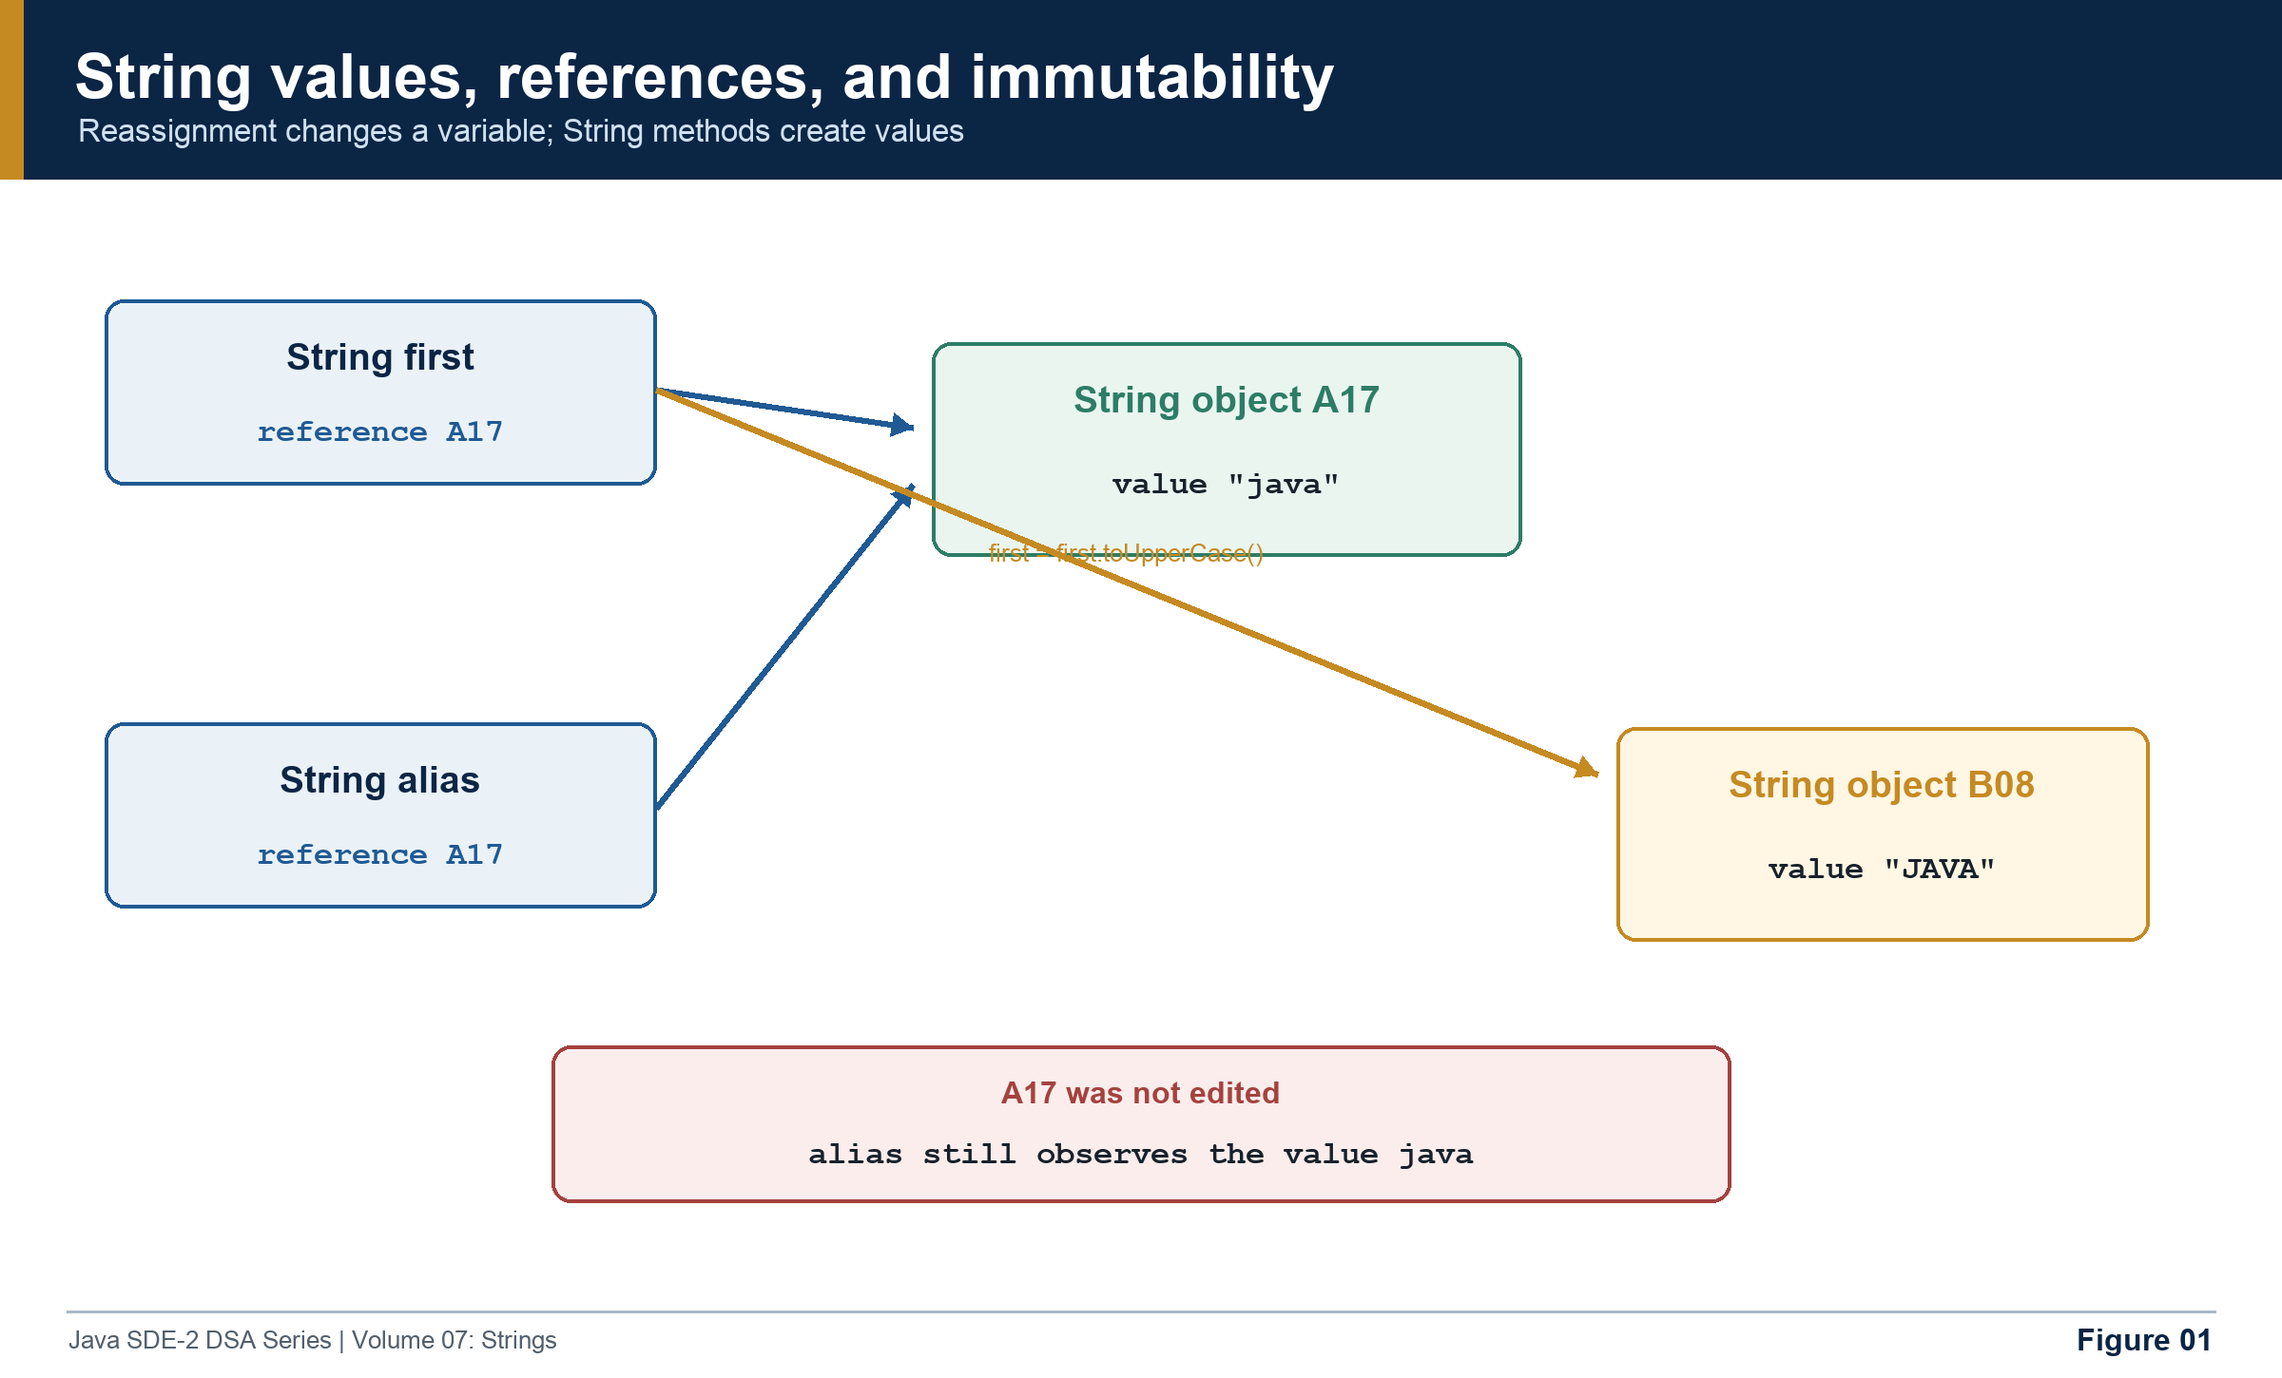
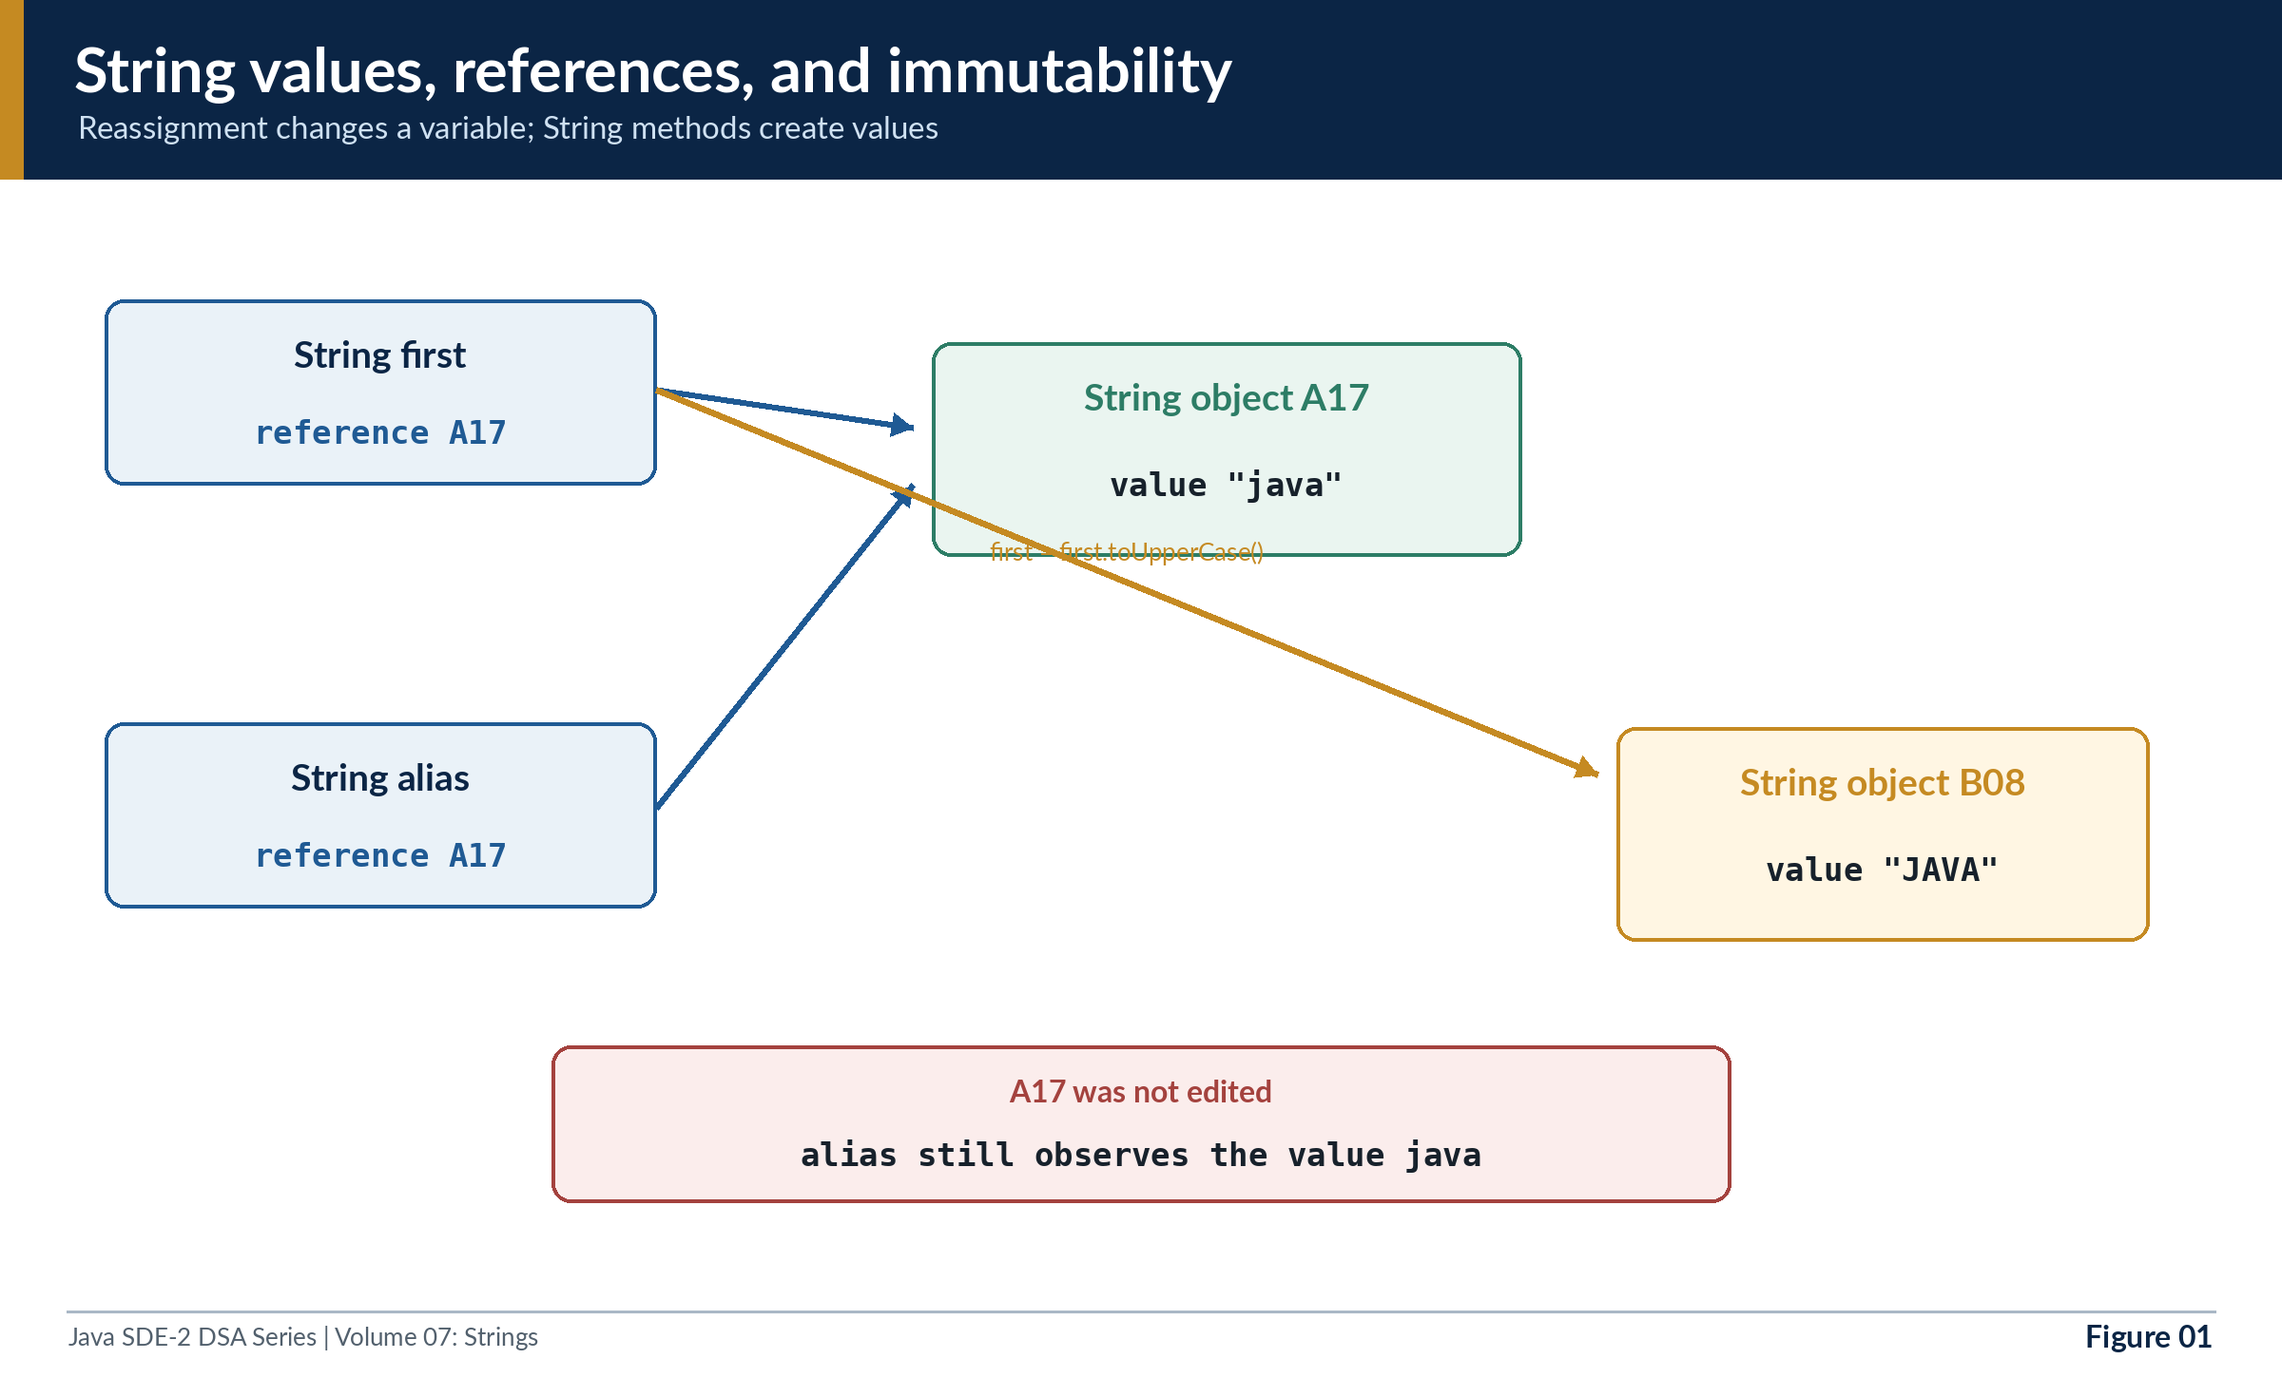
Fix diagram generators writing to dead paths
Three of the five generators still pointed at pre-reorganization
directories - content/volumes/06-arrays-and-array-patterns rather than
content/volumes/dsa/DSA-06-arrays-and-array-patterns.

They did not fail. mkdir(parents=True) created the stale directory, wrote the
PNGs into it, and reported success, while the assets the chapters actually
reference were never touched. Anyone regenerating diagrams would have seen a
clean run and no change in the book.

scripts/diagram_kit.py now holds the shared palette, canvas, and primitives,
and resolves output directories by volume name through volume_assets(), which
refuses to create a volume directory that does not already exist. That guard
is what would have caught this.

Fonts move to the vendored assets/fonts for the same reason the PDF build
did: the generators searched macOS paths first and fell back to DejaVu, so
identical source produced visibly different diagrams per host. Diagrams are
committed artifacts, which made regeneration a source of spurious diffs.
Headings now use Lato, matching the book's own sans, so the 38 regenerated
PNGs change appearance slightly and deterministically.

Verified: all three repointed generators run, write into the correct
directories, create no orphans, and produce valid non-blank images at the
expected canvas size.

diff --git a/books/java-sde2-interview-preparation-series/scripts/diagram_kit.py b/books/java-sde2-interview-preparation-series/scripts/diagram_kit.py
@@ -1,0 +1,152 @@
+#!/usr/bin/env python3
+"""Shared drawing toolkit for the instructional diagram generators.
+
+Two defects motivated this module, and both were silent.
+
+**Output paths.** Each generator hardcoded a path from before the volume
+reorganization -- `content/volumes/06-arrays-and-array-patterns/assets` rather
+than `content/volumes/dsa/DSA-06-arrays-and-array-patterns/assets`. The
+generators did not fail. `mkdir(parents=True)` created the stale directory,
+wrote the PNGs into it, and reported success while the assets the chapters
+actually reference were never updated. `volume_assets()` resolves the
+directory from the volume id and refuses to create a new one.
+
+**Fonts.** Generators searched macOS font paths first and fell back to DejaVu,
+so the same generator produced visibly different diagrams depending on the
+host. Diagrams are committed artifacts, so this made regeneration a source of
+spurious diffs. They now load only the fonts vendored under `assets/fonts`,
+the same set the PDF build uses.
+
+Everything else here is the house diagram style: palette, header band, footer
+rule, and the primitives the volume generators compose.
+"""
+
+from __future__ import annotations
+
+from pathlib import Path
+from typing import Iterable
+
+from PIL import Image, ImageDraw, ImageFont
+
+ROOT = Path(__file__).resolve().parents[1]
+FONT_DIR = ROOT / "assets" / "fonts"
+VOLUMES = ROOT / "content" / "volumes"
+
+# Canvas geometry. Chosen so a full-width diagram lands near 1:1.65 on the page
+# at the series text width; changing it changes every diagram's scale.
+W, H = 2400, 1450
+
+# House palette. Matches the PDF theme colours in scripts/build_book.py.
+NAVY, BLUE, TEAL, GOLD = "#0B2545", "#1F5A94", "#17758A", "#C58A22"
+GREEN, RED, INK, MUTED = "#2D7D66", "#A4423E", "#17212B", "#52606D"
+LINE, WHITE = "#AAB8C6", "#FFFFFF"
+PALE_BLUE, PALE_TEAL, PALE_GOLD = "#EAF2F8", "#EAF6F8", "#FFF6E3"
+PALE_GREEN, PALE_RED, PALE_GRAY = "#EAF5F0", "#FBEDEC", "#F3F6F8"
+
+_FONT_FILES = {
+    ("sans", False): "Lato-Regular.ttf",
+    ("sans", True): "Lato-Bold.ttf",
+    ("mono", False): "DejaVuSansMono.ttf",
+    ("mono", True): "DejaVuSansMono-Bold.ttf",
+}
+
+
+def font(size: int, *, bold: bool = False, mono: bool = False) -> ImageFont.FreeTypeFont:
+    """Load a vendored font. Missing files are a hard error, not a fallback."""
+    filename = _FONT_FILES[("mono" if mono else "sans", bold)]
+    path = FONT_DIR / filename
+    if not path.is_file():
+        raise RuntimeError(
+            f"Missing bundled font {path}. Diagram generation reads only "
+            "assets/fonts so that output does not depend on the host."
+        )
+    return ImageFont.truetype(str(path), size)
+
+
+def volume_assets(volume_dir_name: str) -> Path:
+    """Resolve a volume's assets directory, refusing to invent one.
+
+    `volume_dir_name` is the directory under content/volumes/<segment>/, for
+    example "DSA-17-dynamic-programming". The volume directory must already
+    exist; only `assets/` is created. This is the guard that would have caught
+    the stale-path bug, which wrote PNGs nothing read.
+    """
+    matches = [p for p in VOLUMES.glob(f"*/{volume_dir_name}") if p.is_dir()]
+    if not matches:
+        available = sorted(p.name for p in VOLUMES.glob("*/*") if p.is_dir())
+        raise RuntimeError(
+            f"No volume directory named {volume_dir_name!r} under {VOLUMES}. "
+            f"Known volumes: {', '.join(available[:6])}..."
+        )
+    if len(matches) > 1:
+        raise RuntimeError(f"Ambiguous volume name {volume_dir_name!r}: {matches}")
+    assets = matches[0] / "assets"
+    assets.mkdir(exist_ok=True)
+    return assets
+
+
+def markdown_path(volume_dir_name: str, filename: str) -> str:
+    """The repo-relative path a chapter must use to reference a diagram."""
+    assets = volume_assets(volume_dir_name)
+    return str(assets.relative_to(ROOT) / filename)
+
+
+def canvas(title: str, subtitle: str, footer: str) -> tuple[Image.Image, ImageDraw.ImageDraw]:
+    """A titled canvas with the series header band and footer rule."""
+    image = Image.new("RGB", (W, H), WHITE)
+    draw = ImageDraw.Draw(image)
+    draw.rectangle((0, 0, W, 188), fill=NAVY)
+    draw.rectangle((0, 0, 24, 188), fill=GOLD)
+    draw.text((78, 44), title, font=font(67, bold=True), fill=WHITE)
+    draw.text((82, 119), subtitle, font=font(34), fill="#CFE1F2")
+    draw.line((70, H - 70, W - 70, H - 70), fill=LINE, width=3)
+    draw.text((72, H - 55), footer, font=font(27), fill=MUTED)
+    return image, draw
+
+
+def box(draw: ImageDraw.ImageDraw, xy: tuple[int, int, int, int], *,
+        fill: str = WHITE, outline: str = LINE, width: int = 3, radius: int = 14) -> None:
+    draw.rounded_rectangle(xy, radius=radius, fill=fill, outline=outline, width=width)
+
+
+def centered(draw: ImageDraw.ImageDraw, xy: tuple[int, int, int, int], text: str,
+             *, f: ImageFont.FreeTypeFont, fill: str = INK) -> None:
+    """Centre text inside a box, measured rather than estimated."""
+    x0, y0, x1, y1 = xy
+    left, top, right, bottom = draw.textbbox((0, 0), text, font=f)
+    draw.text(
+        (x0 + (x1 - x0 - (right - left)) / 2 - left,
+         y0 + (y1 - y0 - (bottom - top)) / 2 - top),
+        text, font=f, fill=fill)
+
+
+def arrow(draw: ImageDraw.ImageDraw, start: tuple[int, int], end: tuple[int, int],
+          *, colour: str = BLUE, width: int = 5, head: int = 22) -> None:
+    """A straight arrow with a filled triangular head."""
+    import math
+    draw.line((start, end), fill=colour, width=width)
+    angle = math.atan2(end[1] - start[1], end[0] - start[0])
+    draw.polygon(
+        [end,
+         (end[0] - head * math.cos(angle - math.pi / 7),
+          end[1] - head * math.sin(angle - math.pi / 7)),
+         (end[0] - head * math.cos(angle + math.pi / 7),
+          end[1] - head * math.sin(angle + math.pi / 7))],
+        fill=colour)
+
+
+def legend(draw: ImageDraw.ImageDraw, x: int, y: int,
+           entries: Iterable[tuple[str, str]], *, swatch: int = 34) -> None:
+    """A colour key. Entries are (colour, label) pairs."""
+    f = font(29)
+    for index, (colour, label) in enumerate(entries):
+        top = y + index * (swatch + 18)
+        draw.rounded_rectangle((x, top, x + swatch, top + swatch),
+                               radius=7, fill=colour, outline=LINE, width=2)
+        draw.text((x + swatch + 18, top + 2), label, font=f, fill=MUTED)
+
+
+def save(image: Image.Image, volume_dir_name: str, filename: str) -> Path:
+    path = volume_assets(volume_dir_name) / filename
+    image.save(path, "PNG", optimize=True)
+    return path

diff --git a/books/java-sde2-interview-preparation-series/scripts/generate_string_diagrams.py b/books/java-sde2-interview-preparation-series/scripts/generate_string_diagrams.py
@@ -8,9 +8,11 @@ from pathlib import Path
 
 from PIL import Image, ImageDraw, ImageFont
 
+import diagram_kit
+
 
 ROOT = Path(__file__).resolve().parents[1]
-OUT = ROOT / "content" / "volumes" / "07-strings-and-string-patterns" / "assets"
+OUT = ROOT / "content" / "volumes" / "dsa" / "DSA-07-strings-and-string-patterns" / "assets"
 W, H = 2400, 1450
 NAVY, BLUE, TEAL, GOLD = "#0B2545", "#1F5A94", "#17758A", "#C58A22"
 GREEN, RED, INK, MUTED = "#2D7D66", "#A4423E", "#17212B", "#52606D"
@@ -20,23 +22,10 @@ PALE_GREEN, PALE_RED, PALE_GRAY = "#EAF5F0", "#FBEDEC", "#F3F6F8"
 
 
 def font(size: int, *, bold: bool = False, mono: bool = False) -> ImageFont.FreeTypeFont:
-    names = (
-        ["/System/Library/Fonts/Supplemental/Courier New Bold.ttf",
-         "/usr/share/fonts/truetype/dejavu/DejaVuSansMono-Bold.ttf"]
-        if mono and bold else
-        ["/System/Library/Fonts/Supplemental/Courier New.ttf",
-         "/usr/share/fonts/truetype/dejavu/DejaVuSansMono.ttf"]
-        if mono else
-        ["/System/Library/Fonts/Supplemental/Arial Bold.ttf",
-         "/usr/share/fonts/truetype/dejavu/DejaVuSans-Bold.ttf"]
-        if bold else
-        ["/System/Library/Fonts/Supplemental/Arial.ttf",
-         "/usr/share/fonts/truetype/dejavu/DejaVuSans.ttf"]
-    )
-    for name in names:
-        if Path(name).exists():
-            return ImageFont.truetype(name, size)
-    return ImageFont.load_default(size=size)
+    # Delegates to diagram_kit, which reads only the vendored assets/fonts.
+    # Searching system fonts first made the same generator produce different
+    # diagrams per host, and diagrams are committed artifacts.
+    return diagram_kit.font(size, bold=bold, mono=mono)
 
 
 TITLE = font(65, bold=True)

diff --git a/books/java-sde2-interview-preparation-series/scripts/generate_array_diagrams.py b/books/java-sde2-interview-preparation-series/scripts/generate_array_diagrams.py
@@ -8,9 +8,11 @@ from pathlib import Path
 
 from PIL import Image, ImageDraw, ImageFont
 
+import diagram_kit
+
 
 ROOT = Path(__file__).resolve().parents[1]
-OUT = ROOT / "content" / "volumes" / "06-arrays-and-array-patterns" / "assets"
+OUT = ROOT / "content" / "volumes" / "dsa" / "DSA-06-arrays-and-array-patterns" / "assets"
 W, H = 2400, 1450
 NAVY, BLUE, TEAL, GOLD = "#0B2545", "#1F5A94", "#17758A", "#C58A22"
 GREEN, RED, INK, MUTED = "#2D7D66", "#A4423E", "#17212B", "#52606D"
@@ -20,23 +22,10 @@ PALE_GREEN, PALE_RED, PALE_GRAY = "#EAF5F0", "#FBEDEC", "#F3F6F8"
 
 
 def font(size: int, *, bold: bool = False, mono: bool = False) -> ImageFont.FreeTypeFont:
-    names = (
-        ["/System/Library/Fonts/Supplemental/Courier New Bold.ttf",
-         "/usr/share/fonts/truetype/dejavu/DejaVuSansMono-Bold.ttf"]
-        if mono and bold else
-        ["/System/Library/Fonts/Supplemental/Courier New.ttf",
-         "/usr/share/fonts/truetype/dejavu/DejaVuSansMono.ttf"]
-        if mono else
-        ["/System/Library/Fonts/Supplemental/Arial Bold.ttf",
-         "/usr/share/fonts/truetype/dejavu/DejaVuSans-Bold.ttf"]
-        if bold else
-        ["/System/Library/Fonts/Supplemental/Arial.ttf",
-         "/usr/share/fonts/truetype/dejavu/DejaVuSans.ttf"]
-    )
-    for name in names:
-        if Path(name).exists():
-            return ImageFont.truetype(name, size)
-    return ImageFont.load_default(size=size)
+    # Delegates to diagram_kit, which reads only the vendored assets/fonts.
+    # Searching system fonts first made the same generator produce different
+    # diagrams per host, and diagrams are committed artifacts.
+    return diagram_kit.font(size, bold=bold, mono=mono)
 
 
 TITLE = font(67, bold=True)

diff --git a/books/java-sde2-interview-preparation-series/scripts/generate_loop_diagrams.py b/books/java-sde2-interview-preparation-series/scripts/generate_loop_diagrams.py
@@ -8,9 +8,11 @@ from pathlib import Path
 
 from PIL import Image, ImageDraw, ImageFont
 
+import diagram_kit
+
 
 ROOT = Path(__file__).resolve().parents[1]
-OUT = ROOT / "content" / "volumes" / "05-loop-mastery-and-index-calculations" / "assets"
+OUT = ROOT / "content" / "volumes" / "dsa" / "DSA-05-loop-mastery-and-index-calculations" / "assets"
 
 W, H = 2400, 1450
 NAVY = "#0B2545"
@@ -32,24 +34,10 @@ WHITE = "#FFFFFF"
 
 
 def font(size: int, *, bold: bool = False, mono: bool = False) -> ImageFont.FreeTypeFont:
-    if mono:
-        candidates = [
-            "/System/Library/Fonts/Supplemental/Courier New Bold.ttf"
-            if bold else "/System/Library/Fonts/Supplemental/Courier New.ttf",
-            "/usr/share/fonts/truetype/dejavu/DejaVuSansMono-Bold.ttf"
-            if bold else "/usr/share/fonts/truetype/dejavu/DejaVuSansMono.ttf",
-        ]
-    else:
-        candidates = [
-            "/System/Library/Fonts/Supplemental/Arial Bold.ttf"
-            if bold else "/System/Library/Fonts/Supplemental/Arial.ttf",
-            "/usr/share/fonts/truetype/dejavu/DejaVuSans-Bold.ttf"
-            if bold else "/usr/share/fonts/truetype/dejavu/DejaVuSans.ttf",
-        ]
-    for candidate in candidates:
-        if Path(candidate).exists():
-            return ImageFont.truetype(candidate, size=size)
-    return ImageFont.load_default(size=size)
+    # Delegates to diagram_kit, which reads only the vendored assets/fonts.
+    # Searching system fonts first made the same generator produce different
+    # diagrams per host, and diagrams are committed artifacts.
+    return diagram_kit.font(size, bold=bold, mono=mono)
 
 
 F_TITLE = font(68, bold=True)

diff --git a/books/java-sde2-interview-preparation-series/scripts/generate_number_system_diagrams.py b/books/java-sde2-interview-preparation-series/scripts/generate_number_system_diagrams.py
@@ -15,6 +15,8 @@ from typing import Callable, Iterable
 
 from PIL import Image, ImageDraw, ImageFont
 
+import diagram_kit
+
 
 ROOT = Path(__file__).resolve().parents[1]
 DEFAULT_OUT = (
@@ -46,29 +48,10 @@ WHITE = "#FFFFFF"
 
 
 def font(size: int, *, bold: bool = False, mono: bool = False) -> ImageFont.FreeTypeFont:
-    if mono:
-        candidates = [
-            "/System/Library/Fonts/Supplemental/Courier New Bold.ttf"
-            if bold
-            else "/System/Library/Fonts/Supplemental/Courier New.ttf",
-            "/usr/share/fonts/truetype/dejavu/DejaVuSansMono-Bold.ttf"
-            if bold
-            else "/usr/share/fonts/truetype/dejavu/DejaVuSansMono.ttf",
-        ]
-    else:
-        candidates = [
-            "/System/Library/Fonts/Supplemental/Arial Bold.ttf"
-            if bold
-            else "/System/Library/Fonts/Supplemental/Arial.ttf",
-            "/System/Library/Fonts/Supplemental/Helvetica.ttc",
-            "/usr/share/fonts/truetype/dejavu/DejaVuSans-Bold.ttf"
-            if bold
-            else "/usr/share/fonts/truetype/dejavu/DejaVuSans.ttf",
-        ]
-    for candidate in candidates:
-        if Path(candidate).exists():
-            return ImageFont.truetype(candidate, size=size)
-    return ImageFont.load_default(size=size)
+    # Delegates to diagram_kit, which reads only the vendored assets/fonts.
+    # Searching system fonts first made the same generator produce different
+    # diagrams per host, and diagrams are committed artifacts.
+    return diagram_kit.font(size, bold=bold, mono=mono)
 
 
 F_TITLE = font(72, bold=True)
